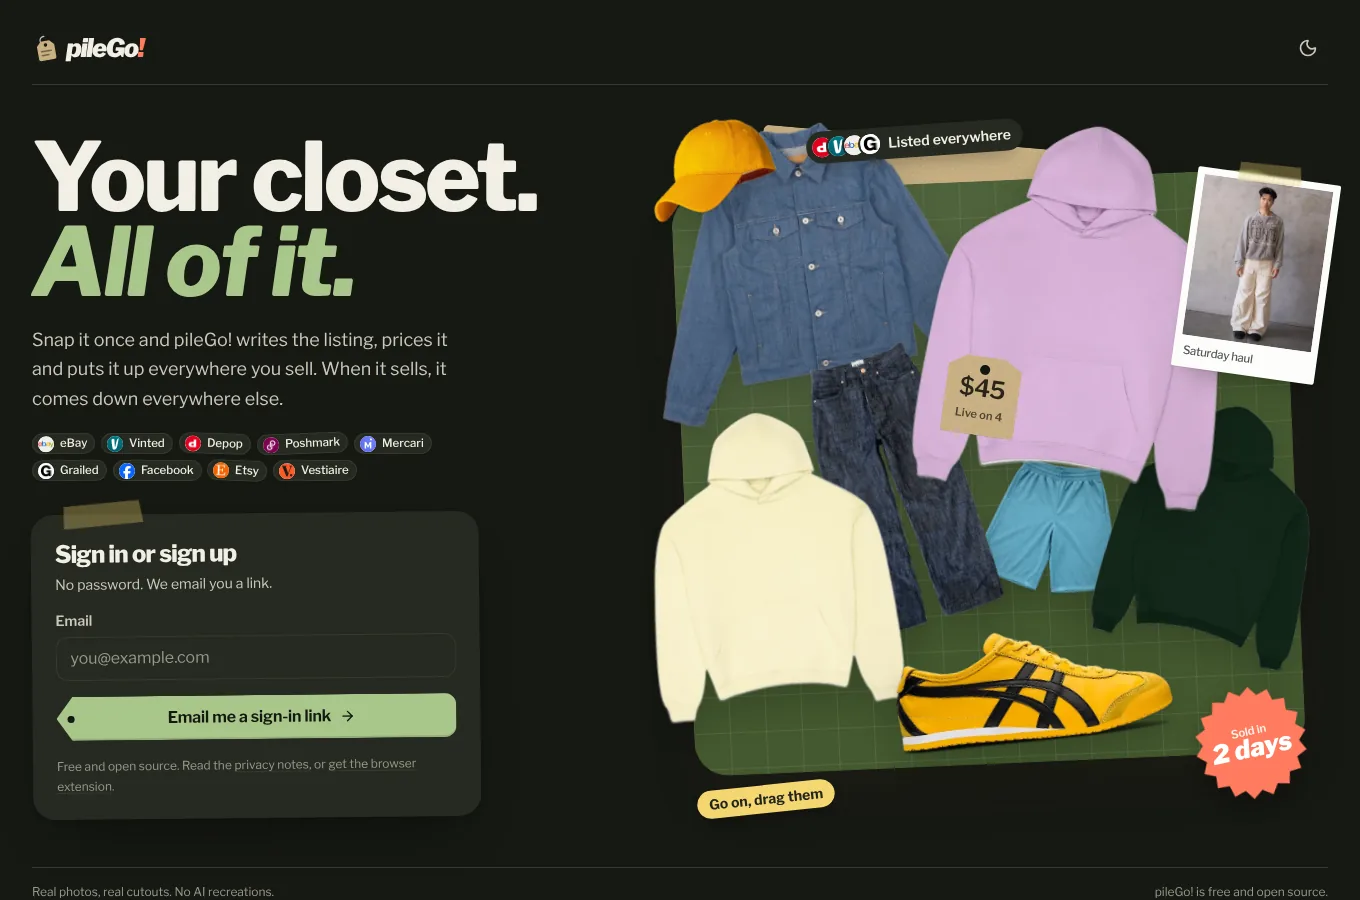
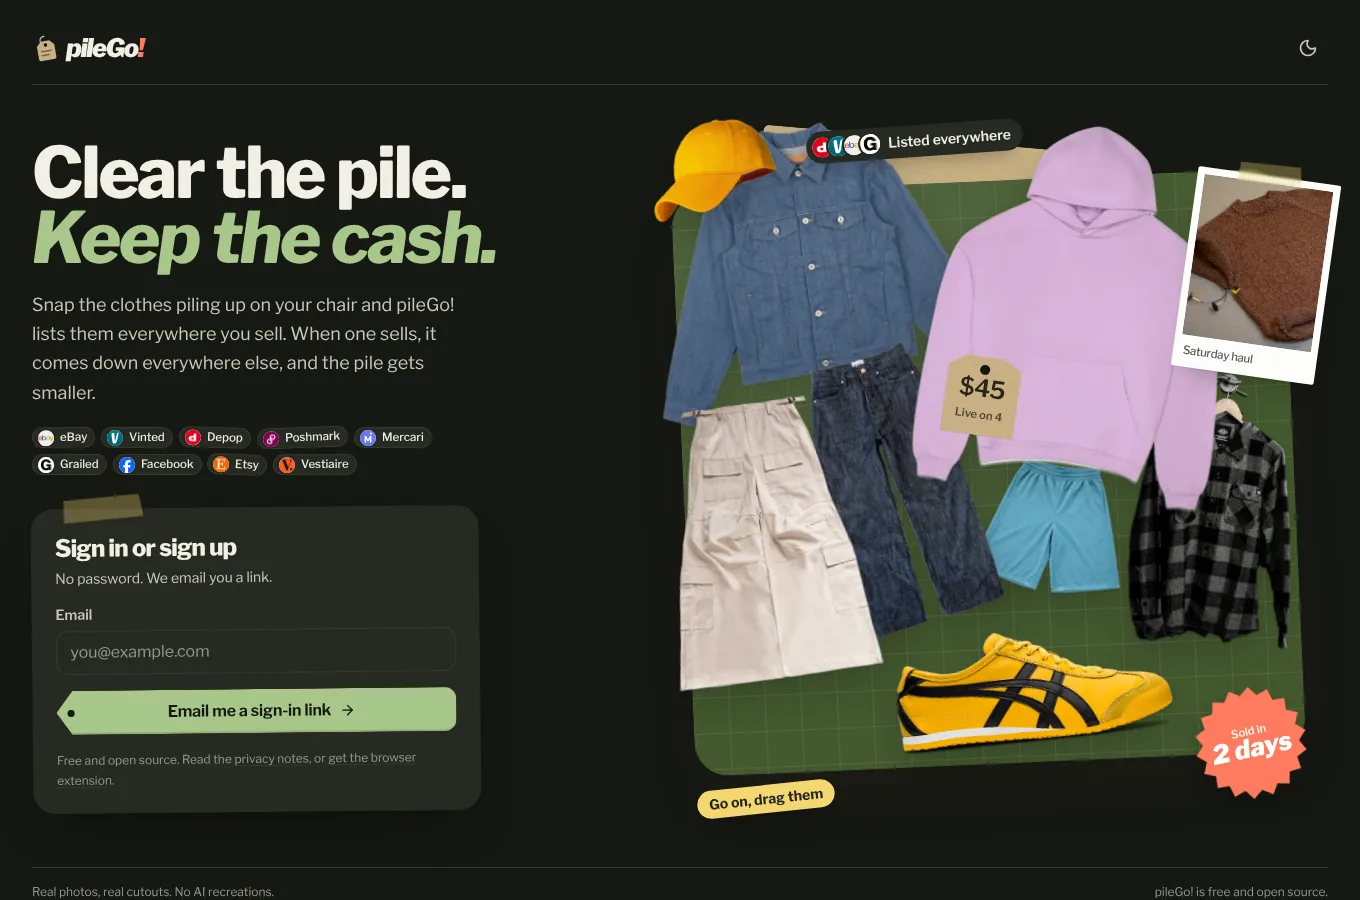
Centre the sign-in intro on clearing the pile and mix up the collage
The headline is now 'Clear the pile. Keep the cash.' and the intro talks
about the clothes piling up on your chair. The collage keeps one hoodie
and swaps the other two for a flannel and cream cargos, with a knit
polaroid.

Claude-Session: https://claude.ai/code/session_01HEuHS2nw93u6KPNAABA9DL

diff --git a/apps/web/src/routes/SignIn.tsx b/apps/web/src/routes/SignIn.tsx
@@ -10,23 +10,23 @@ import { PHOTOS, type CutoutId } from '~/lib/art';
 import { cx } from '~/lib/format';
 import { errorMessage, supabase } from '~/lib/supabase';
 
-// The board: a weekend haul thrown onto a green cutting mat. Heavyweight
-// hoodies, selvedge and a pair of Mexico 66s pile up and spill over the edges,
+// The board: a weekend haul thrown onto a green cutting mat. A hoodie, a
+// flannel, selvedge, cargos and a pair of Mexico 66s pile up and spill over the edges,
 // with a polaroid, a price tag and a sold sticker on top. Positions are a share
 // of the board, so the same layout scales from a phone to a wide screen.
 const PIECES: Array<{ id: CutoutId; at: Placement }> = [
   { id: 'selvedgeJacket', at: { x: '1%', y: '9%', w: '50%', r: -9, z: 2, phone: true } },
   { id: 'meshShorts', at: { x: '49%', y: '53%', w: '22%', r: 9, z: 2 } },
-  { id: 'pineHoodie', at: { x: '69%', y: '45%', w: '30%', r: 13, z: 3 } },
+  { id: 'flannel', at: { x: '72%', y: '41%', w: '26%', r: 12, z: 3 } },
   { id: 'rawSelvedge', at: { x: '29%', y: '37%', w: '21%', r: -17, z: 3, phone: true } },
   { id: 'lilacHoodie', at: { x: '41%', y: '3%', w: '44%', r: 7, z: 4, phone: true } },
-  { id: 'bananaHoodie', at: { x: '5%', y: '45%', w: '36%', r: -6, z: 5, phone: true } },
+  { id: 'creamCargos', at: { x: '7%', y: '44%', w: '30%', r: -8, z: 5, phone: true } },
   { id: 'cap', at: { x: '-1%', y: '2%', w: '19%', r: -20, z: 6 } },
   { id: 'mexico66Yellow', at: { x: '37%', y: '73%', w: '40%', r: -7, z: 8, phone: true } },
 ];
 
 const PRINTS: Array<{ photo: keyof typeof PHOTOS; caption: string; at: Placement }> = [
-  { photo: 'cargoFit', caption: 'Saturday haul', at: { x: '79%', y: '4%', w: '21%', r: 8, z: 6 } },
+  { photo: 'knit', caption: 'Saturday haul', at: { x: '79%', y: '4%', w: '21%', r: 8, z: 6 } },
 ];
 
 // A sticker with a scalloped edge, like the ones on a shop window.
@@ -96,14 +96,14 @@ export function SignIn() {
 
         <div className="grid flex-1 items-center gap-8 py-6 lg:grid-cols-[minmax(0,0.9fr)_minmax(0,1.1fr)] lg:gap-12 lg:py-10">
           <div className="order-2 flex max-w-xl flex-col lg:order-1">
-            <motion.h1 className="font-display text-[clamp(3rem,7vw,6.2rem)] leading-[0.9]" {...rise(0.08)}>
-              Your closet.
+            <motion.h1 className="font-display text-[clamp(2.7rem,5.2vw,4.7rem)] leading-[0.92]" {...rise(0.08)}>
+              Clear the pile.
               <br />
-              <span className="text-accent italic">All of it.</span>
+              <span className="text-accent italic">Keep the cash.</span>
             </motion.h1>
             <motion.p className="mt-5 max-w-md text-lg leading-relaxed text-ink-2" {...rise(0.2)}>
-              Snap it once and pileGo! writes the listing, prices it and puts it up everywhere you sell. When it sells, it comes down
-              everywhere else.
+              Snap the clothes piling up on your chair and pileGo! lists them everywhere you sell. When one sells, it comes down
+              everywhere else, and the pile gets smaller.
             </motion.p>
             <motion.div className="mt-5 flex max-w-md flex-wrap gap-1.5" {...rise(0.26)}>
               {MARKETPLACE_IDS.map(id => (

diff --git a/apps/web/e2e/app.spec.ts b/apps/web/e2e/app.spec.ts
@@ -10,7 +10,7 @@ async function snap(page: import('@playwright/test').Page, name: string, project
 test('signed-out visitors see the sign-in floor', async ({ page }, info) => {
   await mockSupabase(page, { signedIn: false });
   await page.goto('/');
-  await expect(page.getByRole('heading', { name: /Your closet\. All of it\./ })).toBeVisible();
+  await expect(page.getByRole('heading', { name: /Clear the pile\. Keep the cash\./ })).toBeVisible();
   await expect(page.getByLabel('Email')).toBeVisible();
   await page.waitForLoadState('networkidle');
   await page.waitForTimeout(1200);

diff --git a/README.md b/README.md
@@ -35,7 +35,7 @@ somewhere, pileGo! takes it down everywhere else.
 |---|---|
 | ![An item page with photos, details and the listings on each marketplace](docs/screenshots/item.webp) | ![The cross-list sheet with a per-marketplace preview](docs/screenshots/crosslist.webp) |
 | ![Out there: listings grouped by what they need from you](docs/screenshots/out.webp) | ![Insights: profit receipt and sales charts](docs/screenshots/insights.webp) |
-| ![The pile in dark mode](docs/screenshots/pile-dark.webp) | ![The sign-in page in dark mode, with heavyweight hoodies, selvedge denim and Onitsuka Tiger trainers](docs/screenshots/signin-dark.webp) |
+| ![The pile in dark mode](docs/screenshots/pile-dark.webp) | ![The sign-in page in dark mode, with a hoodie, flannel, selvedge, cargos and Onitsuka Tiger trainers on a green mat](docs/screenshots/signin-dark.webp) |
 
 ## How pileGo reaches each marketplace
 
